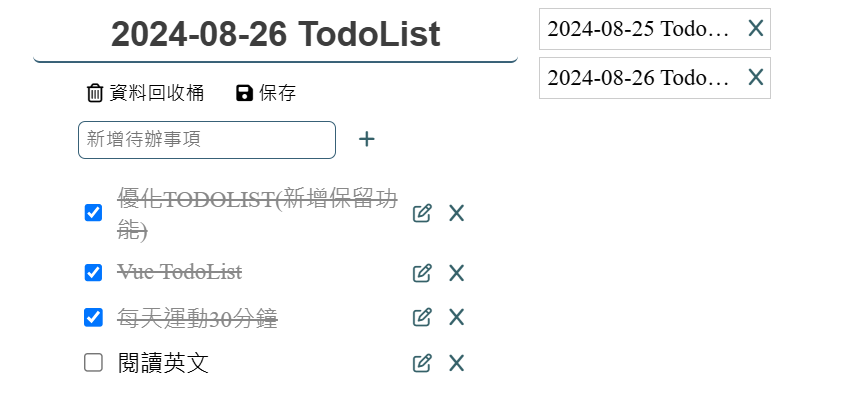
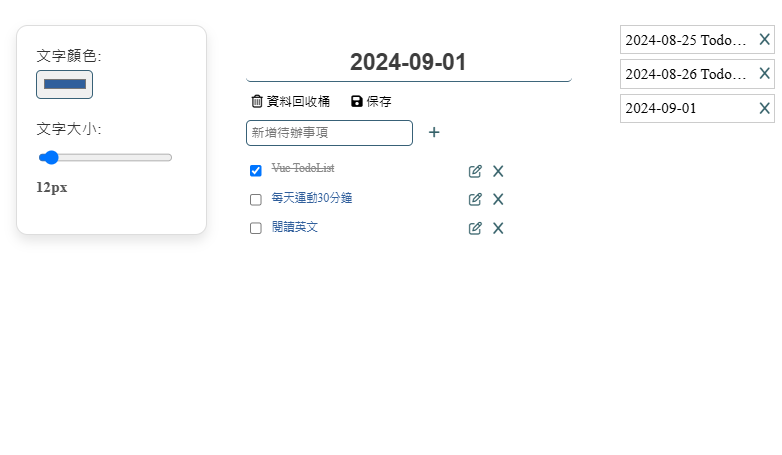
新增作品-貪吃蛇

diff --git a/components/projects.vue b/components/projects.vue
@@ -13,7 +13,6 @@ const cards = ref([
     title: "履歷",
     text: "NUXT3製作履歷介面，RWD",
     link1: "https://resume-nine-phi.vercel.app/",
-    link2: "https://github.com/LEEWT129/resume",
   },
   {
     id: 'todoList',
@@ -52,7 +51,13 @@ const cards = ref([
     title: "翻牌配對小遊戲",
     text: "React 撰寫簡易小遊戲",
     link1: "https://card-game-ten-rho.vercel.app/",
-    link2: "https://github.com/LEEWT129/card-game",
+  },
+  {
+    id: 'snake',
+    imgSrc: "/images/snake.png",
+    title: "貪吃蛇小遊戲",
+    text: "Vue 撰寫簡易小遊戲",
+    link1: "https://snake-game-two-mu.vercel.app/",
   },
 ]);
 </script>
